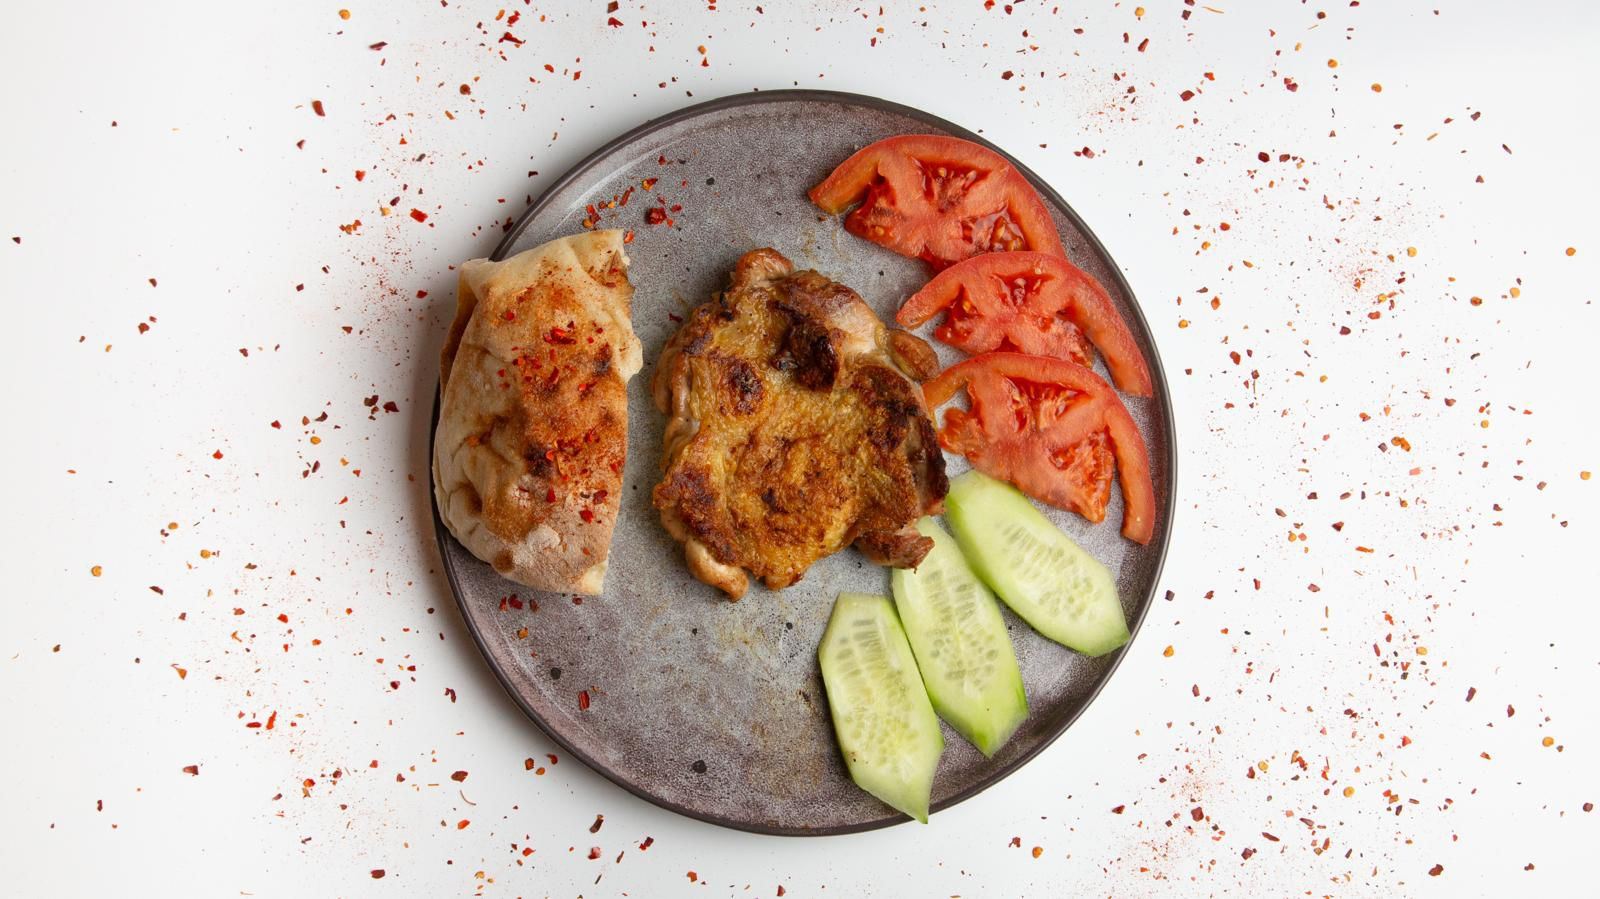
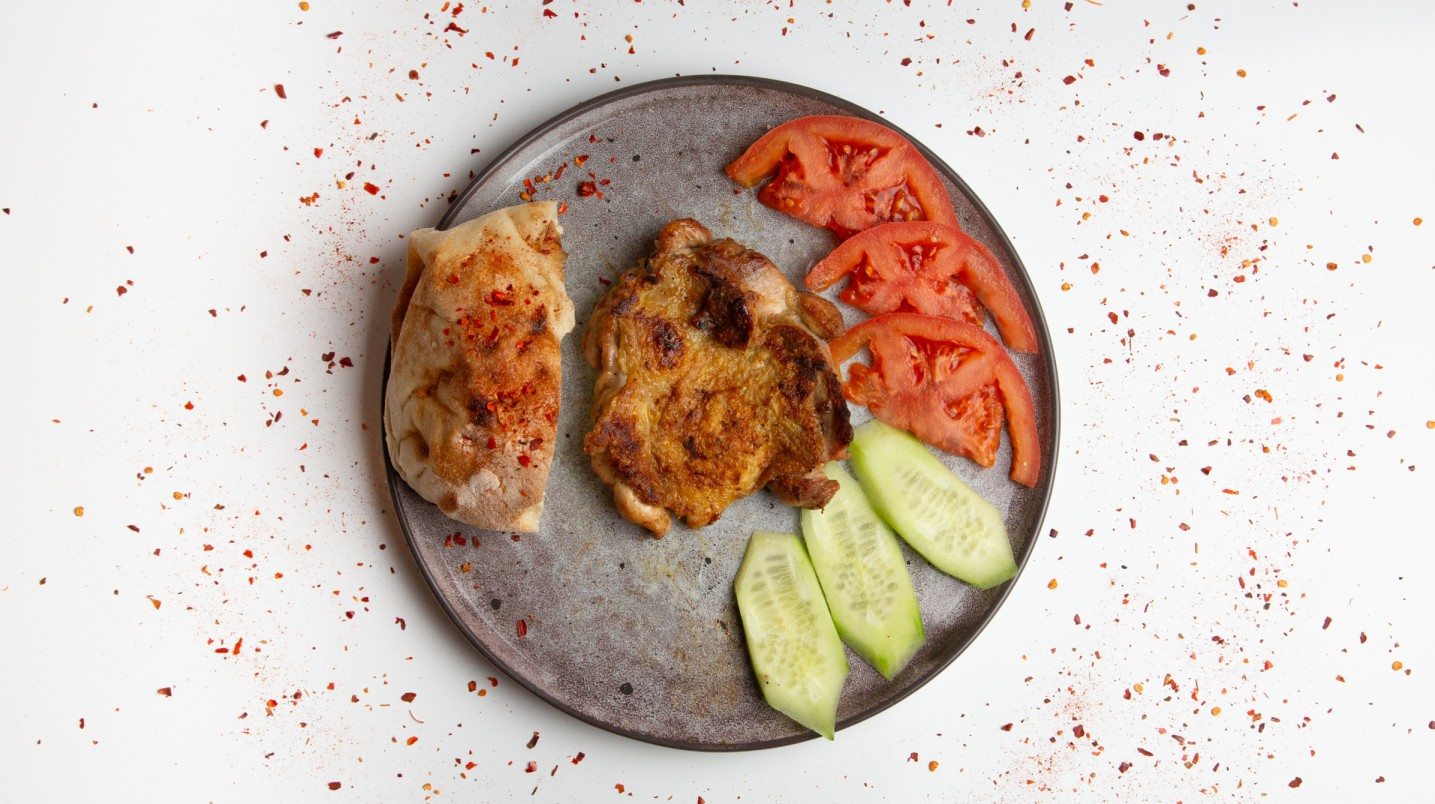
Smanjen kvalitet slika nidje veze

diff --git a/index.html b/index.html
@@ -378,7 +378,7 @@
 					
 					<div class="food-card" data-category="burgers">
 						<div class="shine"></div>
-                        <img src="./images/velika_pljeskavica.png" alt="Lil pljeka" class="food-image">
+                        <img src="./images/velika_pljeskavica.jpg" alt="Lil pljeka" class="food-image">
                         <div class="food-content">
                             <h3 class="food-title">Pljeka, da gricneš</h3>
                             <p class="food-description">100% kravica, jedan "laganiji" obrok.</p>
@@ -395,7 +395,7 @@
 				
                     <div class="food-card" data-category="burgers">
 						<div class="shine"></div>
-                        <img src="./images/pljeskavica_sa_kajmakom.png" alt="Pljeskavica kajmak" class="food-image">
+                        <img src="./images/pljeskavica_sa_kajmakom.jpg" alt="Pljeskavica kajmak" class="food-image">
                         <div class="food-content">
                             <h3 class="food-title">Klasična pljeka, al' s kajmakom</h3>
                             <p class="food-description">100% pljeka, 100% kajmak, 200% uživancija.</p>
@@ -414,7 +414,7 @@
 					
 					<div class="food-card" data-category="burgers">
 						<div class="shine"></div>
-                        <img src="./images/gurmanska.png" alt="Za gurmane, gurmanska" class="food-image">
+                        <img src="./images/gurmanska.jpg" alt="Za gurmane, gurmanska" class="food-image">
                         <div class="food-content">
                             <h3 class="food-title">Za gurmane, gurmanska</h3>
                             <p class="food-description">Za naše gurmane malo ljuće: 100% june(ili ti kravica), slanina, kačkavalj i ljutooo. <br>Što se kaže: slaninica i ljuta paprika, a na uvce stara 'armonika. Da mi svira, da mi srce dira... </p>
@@ -427,7 +427,7 @@
 					
 					<div class="food-card" data-category="burgers">
 						<div class="shine"></div>
-                        <img src="./images/cevapi.png" alt="cevapi" class="food-image">
+                        <img src="./images/cevapi.jpg" alt="cevapi" class="food-image">
                         <div class="food-content">
                             <h3 class="food-title">Ćevapčići</h3>
                             <p class="food-description">100% moja kravica, samlevena u 100% tvoje ćevapčiće.</p>
@@ -479,7 +479,7 @@
 				<div class="menu-grid">
                     <div class="food-card" data-category="kebab">
 						<div class="shine"></div>
-                        <img src="./images/kobasice.png" alt="kobasice" class="food-image">
+                        <img src="./images/kobasice.jpg" alt="kobasice" class="food-image">
                         <div class="food-content">
                             <h3 class="food-title">Roštiljska kobasica</h3>
                             <p class="food-description">Nevidjeno dobra kobaja..</p>
@@ -492,7 +492,7 @@
 
                     <div class="food-card" data-category="kebab">
 						<div class="shine"></div>
-                        <img src="./images/snicla.png" alt="snicla" class="food-image">
+                        <img src="./images/snicla.jpg" alt="snicla" class="food-image">
                         <div class="food-content">
                             <h3 class="food-title">Svinjska šnicla</h3>
                             <p class="food-description">I još jača šnicla, od prasenceta.</p>
@@ -510,7 +510,7 @@
                 <div class="menu-grid">
                     <div class="food-card" data-category="chicken">
 						<div class="shine"></div>
-                        <img src="./images/batak.png" alt="batak" class="food-image">
+                        <img src="./images/batak.jpg" alt="batak" class="food-image">
                         <div class="food-content">
                             <h3 class="food-title">Pileći batak</h3>
                             <p class="food-description">Do juče trčkaralo...</p>
@@ -523,7 +523,7 @@
 					
 					 <div class="food-card" data-category="chicken">
 						<div class="shine"></div>
-                        <img src="./images/pilence.png" alt="pilence" class="food-image">
+                        <img src="./images/pilence.jpg" alt="pilence" class="food-image">
                         <div class="food-content">
                             <h3 class="food-title">Pileći file</h3>
                             <p class="food-description">Nije iz Meksika, al' je belo. Pablo je rekao da valja!</p>
@@ -539,7 +539,7 @@
 					
 					<div class="food-card" data-category="chicken">
 						<div class="shine"></div>
-                        <img src="./images/djordjeva.png" alt="djordjeva" class="food-image">
+                        <img src="./images/djordjeva.jpg" alt="djordjeva" class="food-image">
                         <div class="food-content">
                             <h3 class="food-title">Đorđeva</h3>
                             <p class="food-description">Vlasnik Đorđe voli da pravi specijalitete, pa tako nastade i ovo čudo. <br> Pileća karađorđeva na naš način.</p>
@@ -552,7 +552,7 @@
 					
 					<div class="food-card" data-category="chicken">
 						<div class="shine"></div>
-                        <img src="./images/piletina_susam.png" alt="piletina_susam" class="food-image">
+                        <img src="./images/piletina_susam.jpg" alt="piletina_susam" class="food-image">
                         <div class="food-content">
                             <h3 class="food-title">Piletina sa semenkama</h3>
                             <p class="food-description">Potreban unos proteina, vlakana i vitamina, sve u jednom obroku. <br> U pitanju su nutritivno najbogatije semenke lana, suncokreta i susama.</p>
@@ -610,7 +610,7 @@
                 <div class="menu-grid">
                     <div class="food-card" data-category="specijaliteti">
 						<div class="shine"></div>
-                        <img src="./images/sendvic.png" alt="sendvic" class="food-image">
+                        <img src="./images/sendvic.jpg" alt="sendvic" class="food-image">
                         <div class="food-content">
                             <h3 class="food-title">Sendvič</h3>
                             <p class="food-description">Ako ste za brzu klopu ili ste u žurbi, naši sendviči su uvek tu da Vas stignu. <br> U pitanju je: meso iz ponude ispod, kačkavalj, zelena salata i namaz po izboru.</p>
@@ -627,7 +627,7 @@
 					
 					<div class="food-card" data-category="specijaliteti">
 						<div class="shine"></div>
-                        <img src="./images/pohovani_kackavalj.png" alt="pohovani_kackavalj" class="food-image">
+                        <img src="./images/pohovani_kackavalj.jpg" alt="pohovani_kackavalj" class="food-image">
                         <div class="food-content">
                             <h3 class="food-title">Pohovani kačkavalj</h3>
                             <p class="food-description">Jedino ovo je ostalo od onih silnih krava što ste nam pojeli...</p>
@@ -831,7 +831,7 @@
                 <div class="menu-grid">
 					<div class="food-card" data-category="slatkisi">
 						<div class="shine"></div>
-                        <img src="./images/palacinke.png" alt="palacinka" class="food-image">
+                        <img src="./images/palacinke.jpg" alt="palacinka" class="food-image">
                         <div class="food-content">
                             <h3 class="food-title">Palačinak x 2</h3>
                             <p class="food-description">Jedan palačinak, dva palačinka? Ne, ne.. <br> Svakako, dobijate 2 puta po palačinak, nazovite to kako hoćete.</p>
